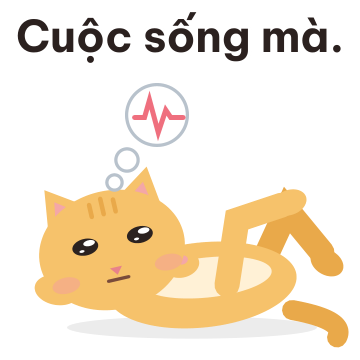
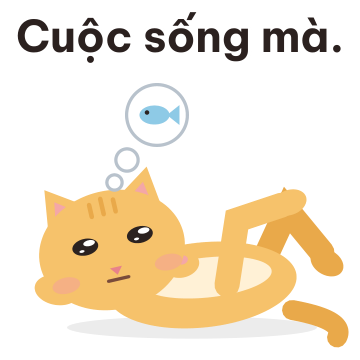
Sticker 03: a little fish in the thought bubble (a cat's idea of life); alt text updated; sets rebuilt

Changed region(s): [[0.3667, 0.2444, 0.5194, 0.3972]]

diff --git a/docs/plans/assets/stickers/build_stickers.py b/docs/plans/assets/stickers/build_stickers.py
@@ -241,12 +241,13 @@ def wrap(inner, x, y, s):
 
 # ---- sticker-only art (not in the app): the lounging cat (3), the curled-up sleeper (9), the rain (10), confetti (7) ----
 def thought_bubble():
-    """Three round bubbles that grow as they rise from the head, the biggest holding a heartbeat line: "life" (its ups and downs)."""
+    """Three round bubbles that grow as they rise from the head, the biggest holding a little fish: a cat's idea of "life"."""
     grey, white = "#b8c2cc", "#ffffff"
     circles = ((33, 57, 2.4), (38, 48, 3.8), (50, 30, 11.5))
     o = "".join(f'<circle cx="{x}" cy="{y}" r="{r + 1.3}" fill="{grey}"/>' for x, y, r in circles)
     o += "".join(f'<circle cx="{x}" cy="{y}" r="{r}" fill="{white}"/>' for x, y, r in circles)
-    return o + stroke_path("M41 31 h4 l2 -7 l3.5 13 l3 -9 l2 3 h5", "#ef6f7e", 2)
+    return o + ('<ellipse cx="49" cy="30" rx="6" ry="3.8" fill="#8ecae6"/><path d="M54 30 l5 -4 v8z" fill="#8ecae6"/>'
+                '<circle cx="46" cy="29" r="0.9" fill="#2b2220"/>')
 
 
 def lounging():
@@ -534,7 +535,7 @@ V1 = [
     # (title vi, title en, title ja), (scene vi, scene en, scene ja), (text en, text ja)
     (("Chào buổi sáng", "Good morning", "おはよう"), ("vươn vai và ngáp", "stretches and yawns", "のびをしてあくびをしている"), ("Good morning!", "おはよう！")),
     (("Sướng quá", "Bliss", "きもちいい"), ("nhắm mắt sung sướng, được gãi đầu", "eyes shut in bliss, being scratched", "うっとり目を閉じて頭をなでられている"), ("So good~", "きもちいい〜")),
-    (("Cuộc sống mà", "Life, you know", "人生ってさ"), ("nằm ngửa vắt chân, vẻ thản nhiên, bong bóng suy nghĩ có đường nhịp tim, tượng trưng cho cuộc sống", "lies back with crossed legs, deadpan, a thought bubble above with a heartbeat line, standing for life", "足を組んで寝転び、すました顔で、心電図の線が入った考えの吹き出しが浮かんでいる（人生を表す）"), ("Life, you know.", "人生ってさ。")),
+    (("Cuộc sống mà", "Life, you know", "人生ってさ"), ("nằm ngửa vắt chân, vẻ thản nhiên, bong bóng suy nghĩ có một con cá nhỏ, cuộc sống theo kiểu mèo", "lies back with crossed legs, deadpan, a thought bubble above with a little fish, a cat's idea of life", "足を組んで寝転び、すました顔で、小さな魚が入った考えの吹き出しが浮かんでいる（ねこの人生）"), ("Life, you know.", "人生ってさ。")),
     (("Buồn ngủ", "Sleepy", "ねむい"), ("gật gù buồn ngủ, có chữ z bay lên", "nods off with a floating z", "うとうとして「z」が浮かんでいる"), ("Sleepy…", "ねむい…")),
     (("Hừm", "Hmph", "むっ"), ("ngồi lườm hờn, thở ra mấy làn khói nhỏ", "sulks with a half-lidded glare and little puffs", "半目でむっとして、小さく息をはいている"), ("Hmph.", "むっ。")),
     (("Quá sức mèo rồi", "Too much for a cat", "ねこには無理"), ("mắt buồn, tai cụp, quá sức", "looks overwhelmed, ears down", "耳をたたんで、手に負えない様子"), ("Too much for a cat.", "ねこには無理！")),

diff --git a/docs/decisions/0050-sticker-second-pass-sarcasm-lounging-and-mochi-sleep.md b/docs/decisions/0050-sticker-second-pass-sarcasm-lounging-and-mochi-sleep.md
@@ -44,6 +44,9 @@ The three bubbles of sticker 03 were made smaller with a clear gap between them 
 ## Later the same day (10)
 The bubble of sticker 03 holds a **heartbeat line** (the symbol of life, with its ups and downs) in the biggest of three growing round bubbles. Four ideas were sketched (`docs/plans/assets/stickers/direction-v1/bubble_options.png`: heartbeat, sun and moon, a fish, a question mark) and the author chose the heartbeat. The manifest's alt text says so.
 
+## Later the same day (11)
+The author changed his mind: the bubble of sticker 03 holds **a little fish** (a cat's idea of life), not the heartbeat line. The manifest's alt text says so.
+
 ## Consequences
 - Spec 06 section 7 and the set list are updated: 16 are in the app (matched to a state) and the sticker-only art is now 03, 09 and the cloud of 10; the set is 17 stickers.
 - The sarcasm texts have not been through the author's ear for Vietnamese banter (backlog E3).

diff --git a/docs/plans/sticker-set-v0.md b/docs/plans/sticker-set-v0.md
@@ -31,6 +31,8 @@ All 15 stickers, the icon, the preview and the 9 banners exist as PNG in [`asset
 
 **Third pass (2026-11-11):** the six stickers that looked alike at 120 px now differ by silhouette or gesture: 05 sits and puffs, 08 beckons with a raised paw, 14 rests a paw on the chin under a thought bubble, 15 giggles behind a paw, 16 claps slowly, 17 turns side-on (see [`six_distinct.png`](assets/stickers/direction-v1/six_distinct.png)); 03 lost its thought dots. The paws and arcs are sticker art, not rig poses.
 
+**Sticker 03, fifth look (2026-11-11, the author):** the bubble holds a little fish (a cat's idea of life), after the heartbeat line.
+
 **Sticker 03, fourth look (2026-11-11, the author):** the biggest bubble holds a heartbeat line (the other ideas are in `direction-v1/bubble_options.png`).
 
 **Sticker 03, third look (2026-11-11, the author):** the three bubbles are smaller with clear gaps and no wavy line inside.
